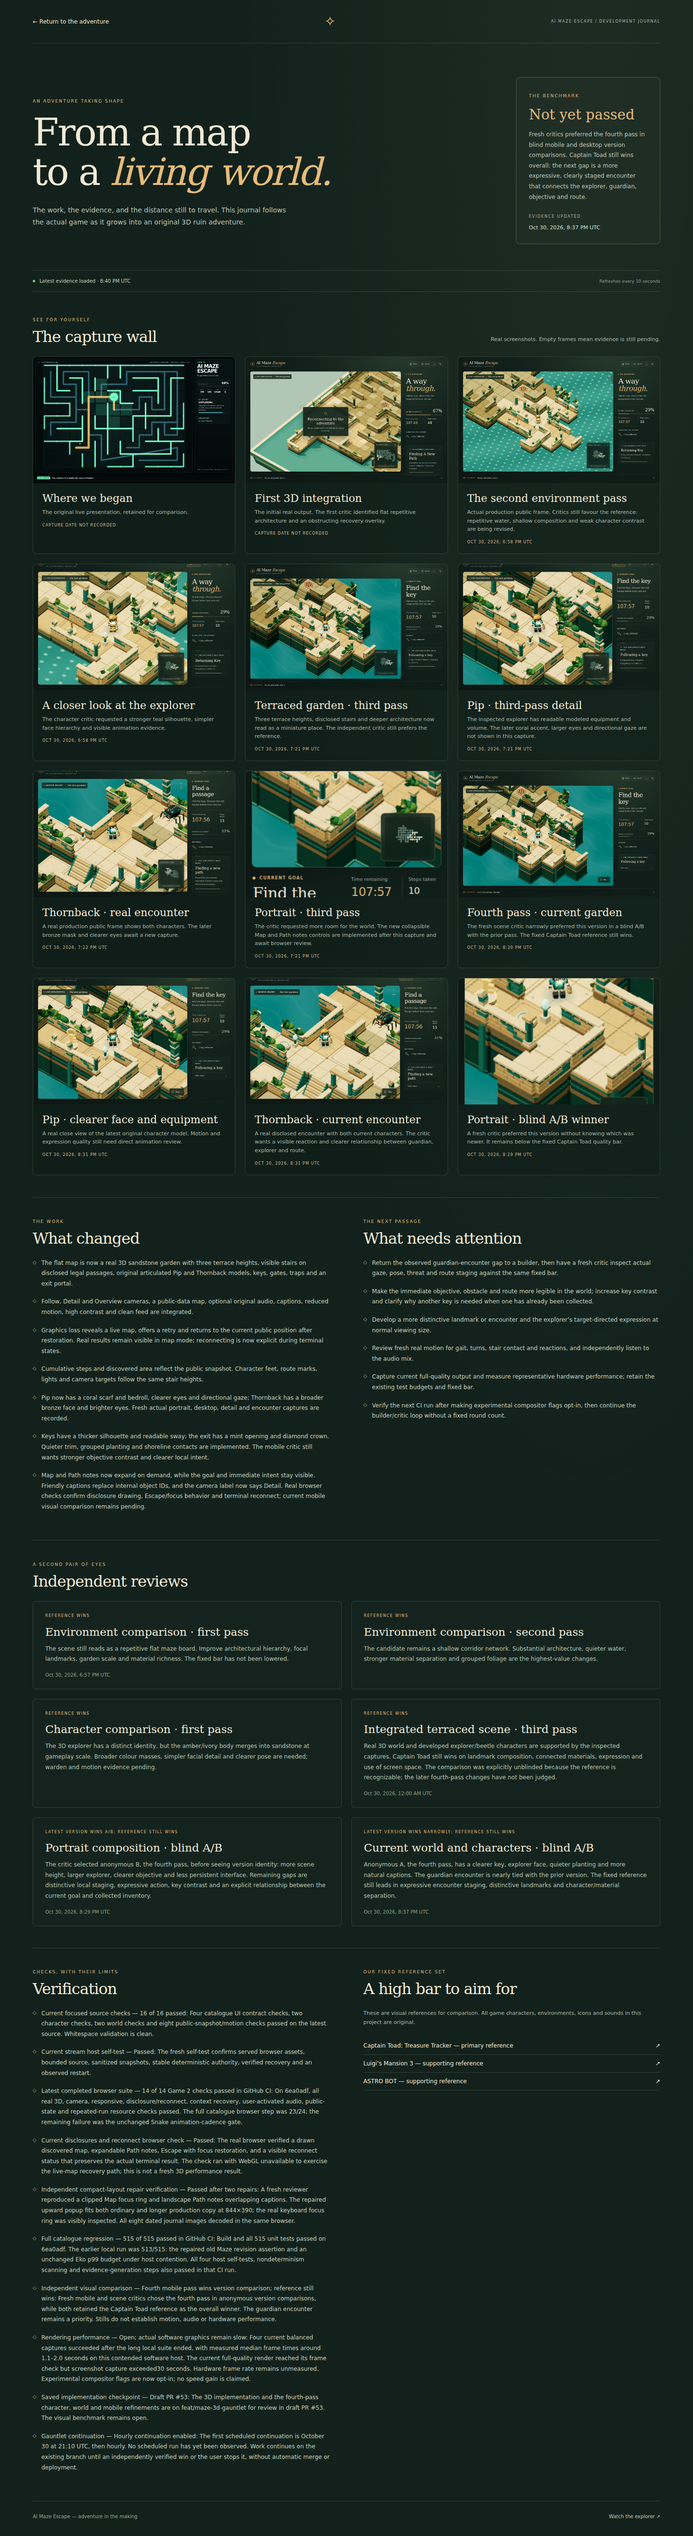
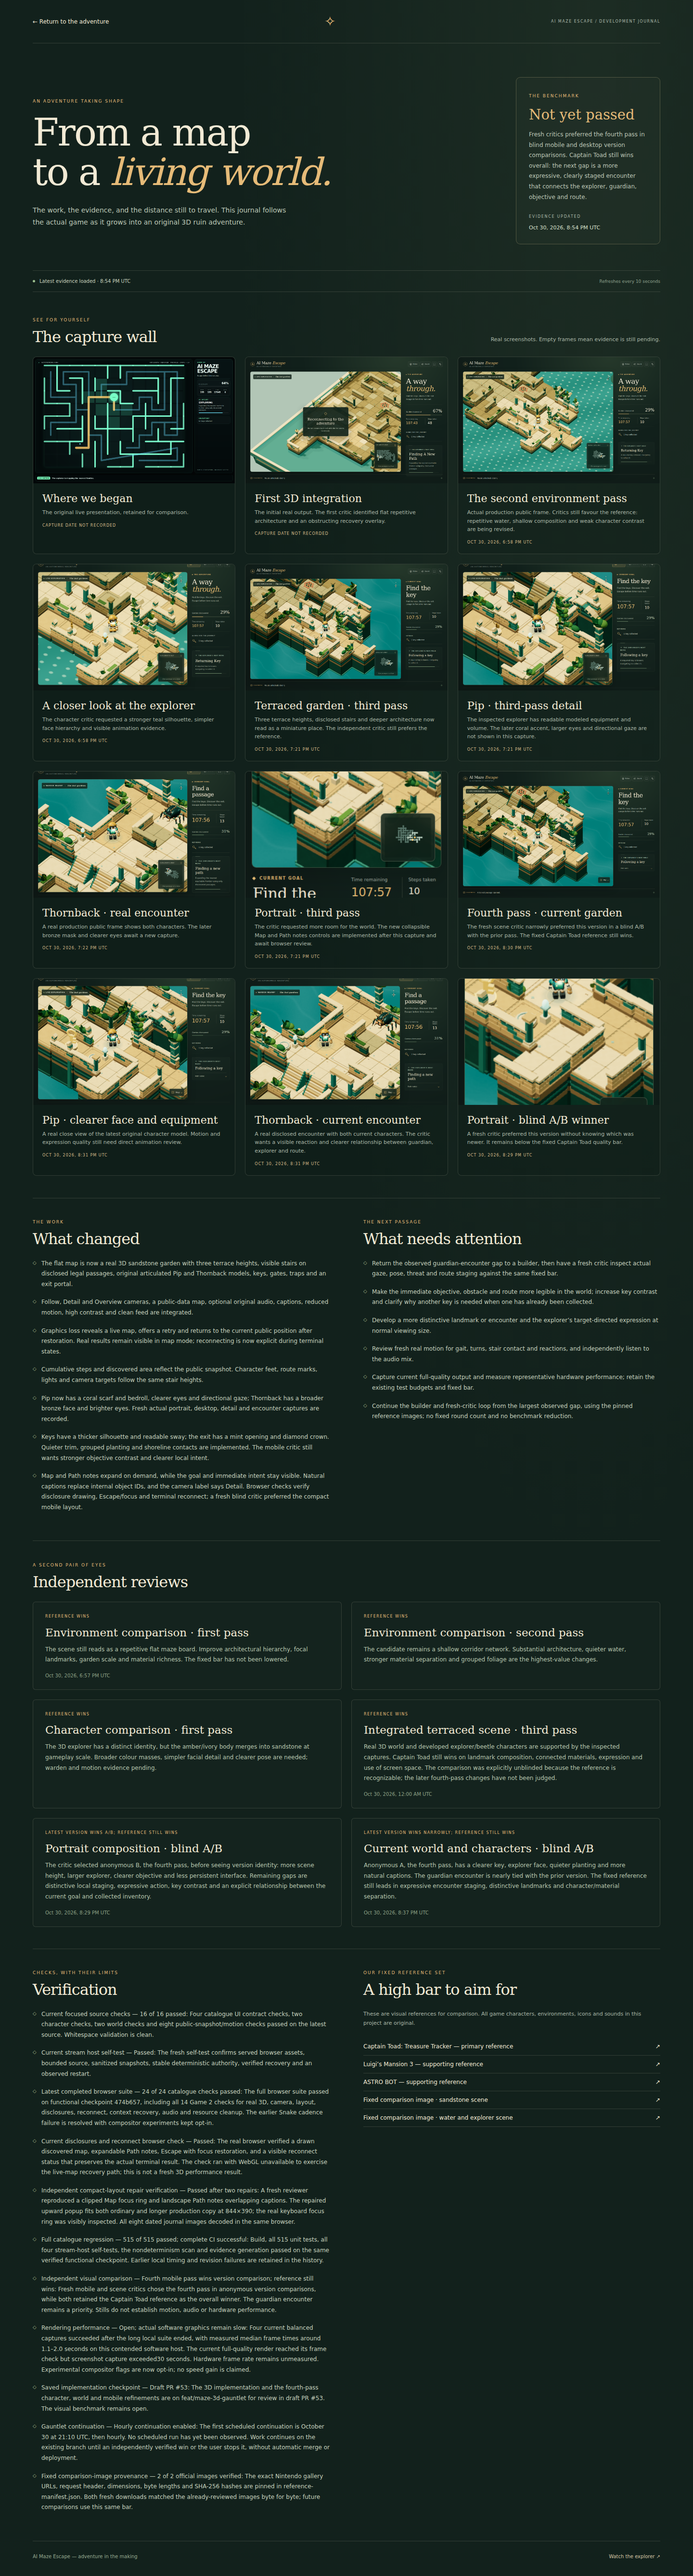
Record verified CI and pin the exact Gauntlet reference frames

diff --git a/docs/reviews/AI_MAZE_ESCAPE_3D_LEDGER.md b/docs/reviews/AI_MAZE_ESCAPE_3D_LEDGER.md
@@ -105,3 +105,11 @@
 - Fresh scene critic 4 locked a narrow preference for anonymous A (fourth/current) over B (third/prior) before identity disclosure, then retained Captain Toad as the overall winner. The clearer key and face and quieter planting help; the guardian encounter is nearly tied. The next builder priorities are a readable reaction/escape relationship in actual guardian encounters, a distinctive navigable landmark, and stronger character/material separation. See `docs/reviews/maze-3d/scene-visual-critic-4.md`. The next iteration is queued through the enabled hourly continuation; no benchmark win is claimed.
 
 - Final live-journal capture at 20:40:33 UTC verified all 12 dated image sources decoded and the visible benchmark remained Not yet passed. The 5265px full-page capture and progress-manifest.json pin its JSON source and image hashes.
+
+
+## Verified functional checkpoint and fixed reference recovery
+
+- Functional checkpoint `474b65774883e466766ce5b671a8a3a978cc4654` passed the complete Autonomous Games CI run `41125382514`: build, **515/515 unit tests**, all four host self-tests, nondeterminism scan, evidence generation and **24/24 browser tests**, including all **14 Game 2 checks**. All three Eko workflows also passed. The earlier Snake cadence failure is resolved with compositor experiments kept opt-in; no threshold was relaxed.
+- A separate provenance researcher recovered both exact image URLs from the official Nintendo product page and freshly downloaded byte-identical 1280×720 JPEGs. `docs/reviews/maze-3d/reference-manifest.json` pins the URLs, Accept header, hashes, byte lengths and frame identities so continuation uses the same bar. The lead independently matched the manifest hashes and byte lengths to the reviewed local references. Nintendo image bytes are not part of the game or repository.
+- This evidence follow-up updates journal status, reference links and review records only. Gameplay, world, characters, renderer, controls and test configuration remain unchanged from the verified functional checkpoint.
+- The benchmark remains unpassed. The enabled continuation resumes the actual guardian-encounter, landmark and character-material gaps recorded by the fresh critics; passing engineering checks do not close those visual goals.

diff --git a/docs/reviews/MAZE_GAUNTLET_PROMPT.md b/docs/reviews/MAZE_GAUNTLET_PROMPT.md
@@ -1,10 +1,10 @@
 # Game 2 Gauntlet
 
-**Bar:** Actual [Captain Toad: Treasure Tracker](https://www.nintendo.com/us/store/products/captain-toad-treasure-tracker-switch/) gameplay and screenshots set the fixed standard for expressive original 3D characters, readable miniature environments, lighting and encounter staging at comparable viewing sizes.
+**Bar:** The two [pinned Captain Toad: Treasure Tracker screenshots](maze-3d/reference-manifest.json) set the fixed standard for expressive original 3D characters, readable miniature environments, lighting and encounter staging at comparable viewing sizes.
 
 ## Lead prompt
 
-Massively improve Game 2, AI Maze Escape, into a complete, polished 3D adventure: every character, scene, animation, effect, sound and interface should feel fully developed. Use actual Captain Toad gameplay and screenshots as the fixed quality bar while keeping our own identity.
+Massively improve Game 2, AI Maze Escape, into a complete, polished 3D adventure: every character, scene, animation, effect, sound and interface should feel fully developed. Use the pinned Captain Toad references as the fixed quality bar while keeping our own identity.
 
 Use subagents and ultracode. Choose the approach. Divide the goal into the smallest pieces that can be improved and judged independently. For every important piece, fan out a builder and a separate critic with fresh context. Each critic must inspect the real running output, compare it directly with the bar—blind A/B when possible—identify the biggest remaining gap and return it to the builder. Keep looping until our output wins or I stop the run. Do not lower the bar or substitute passing tests for a visual win.
 
